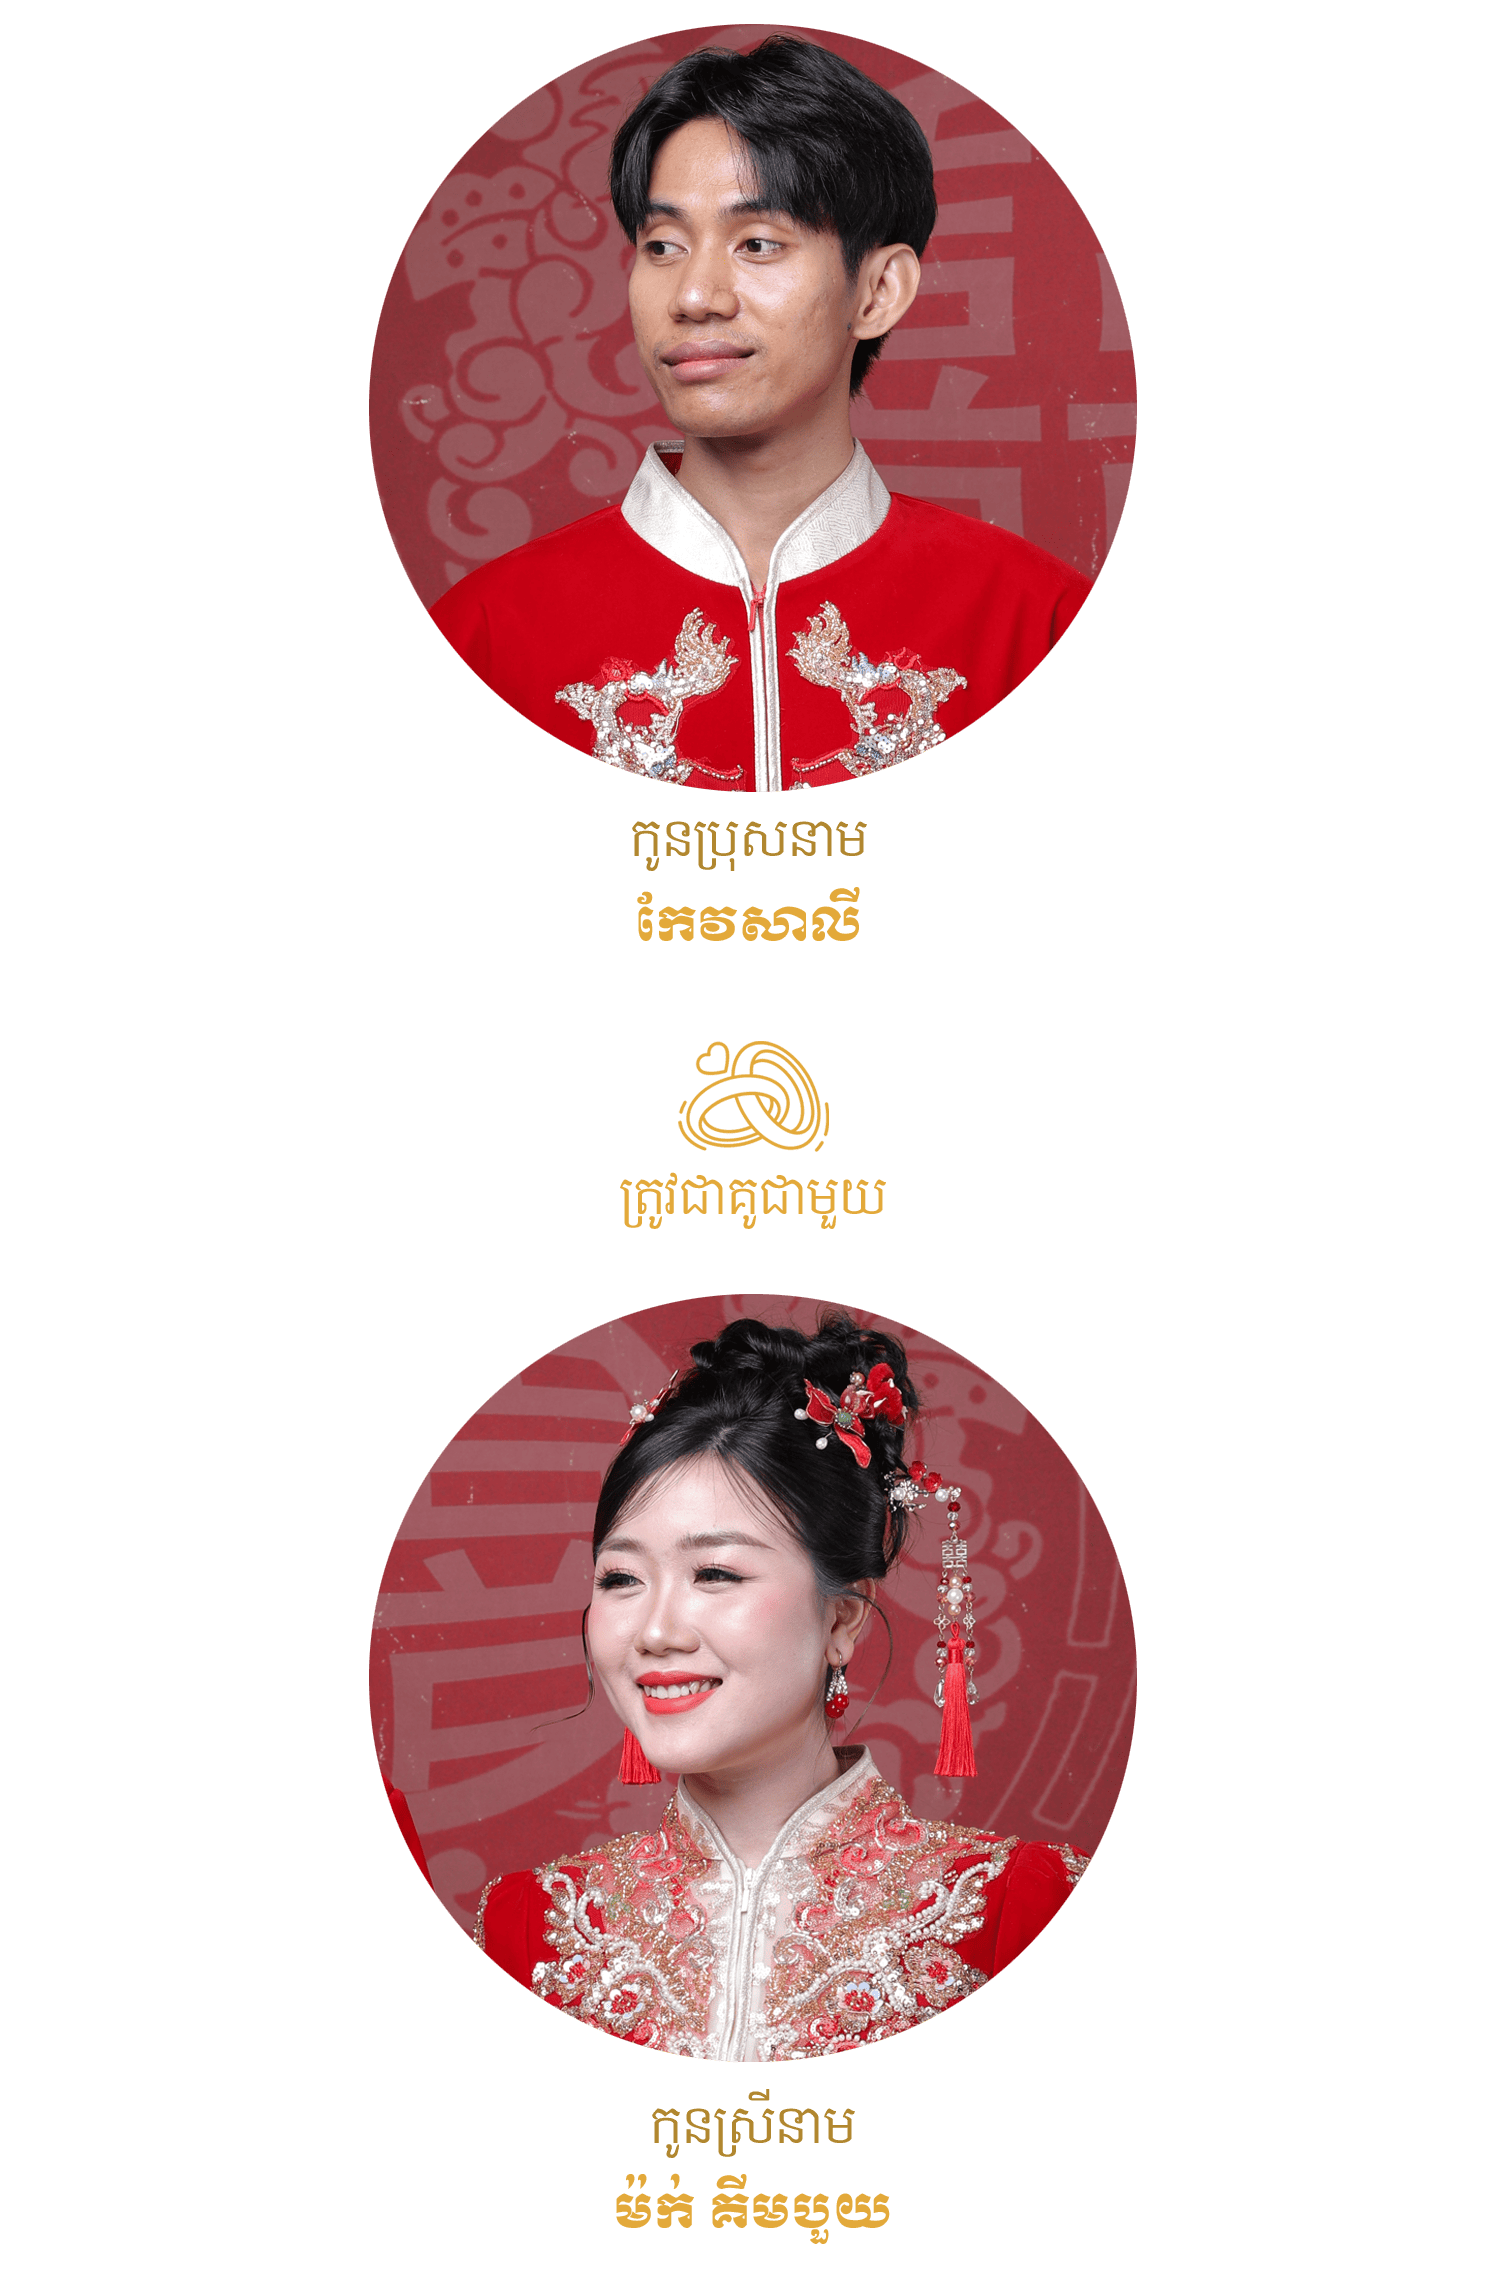
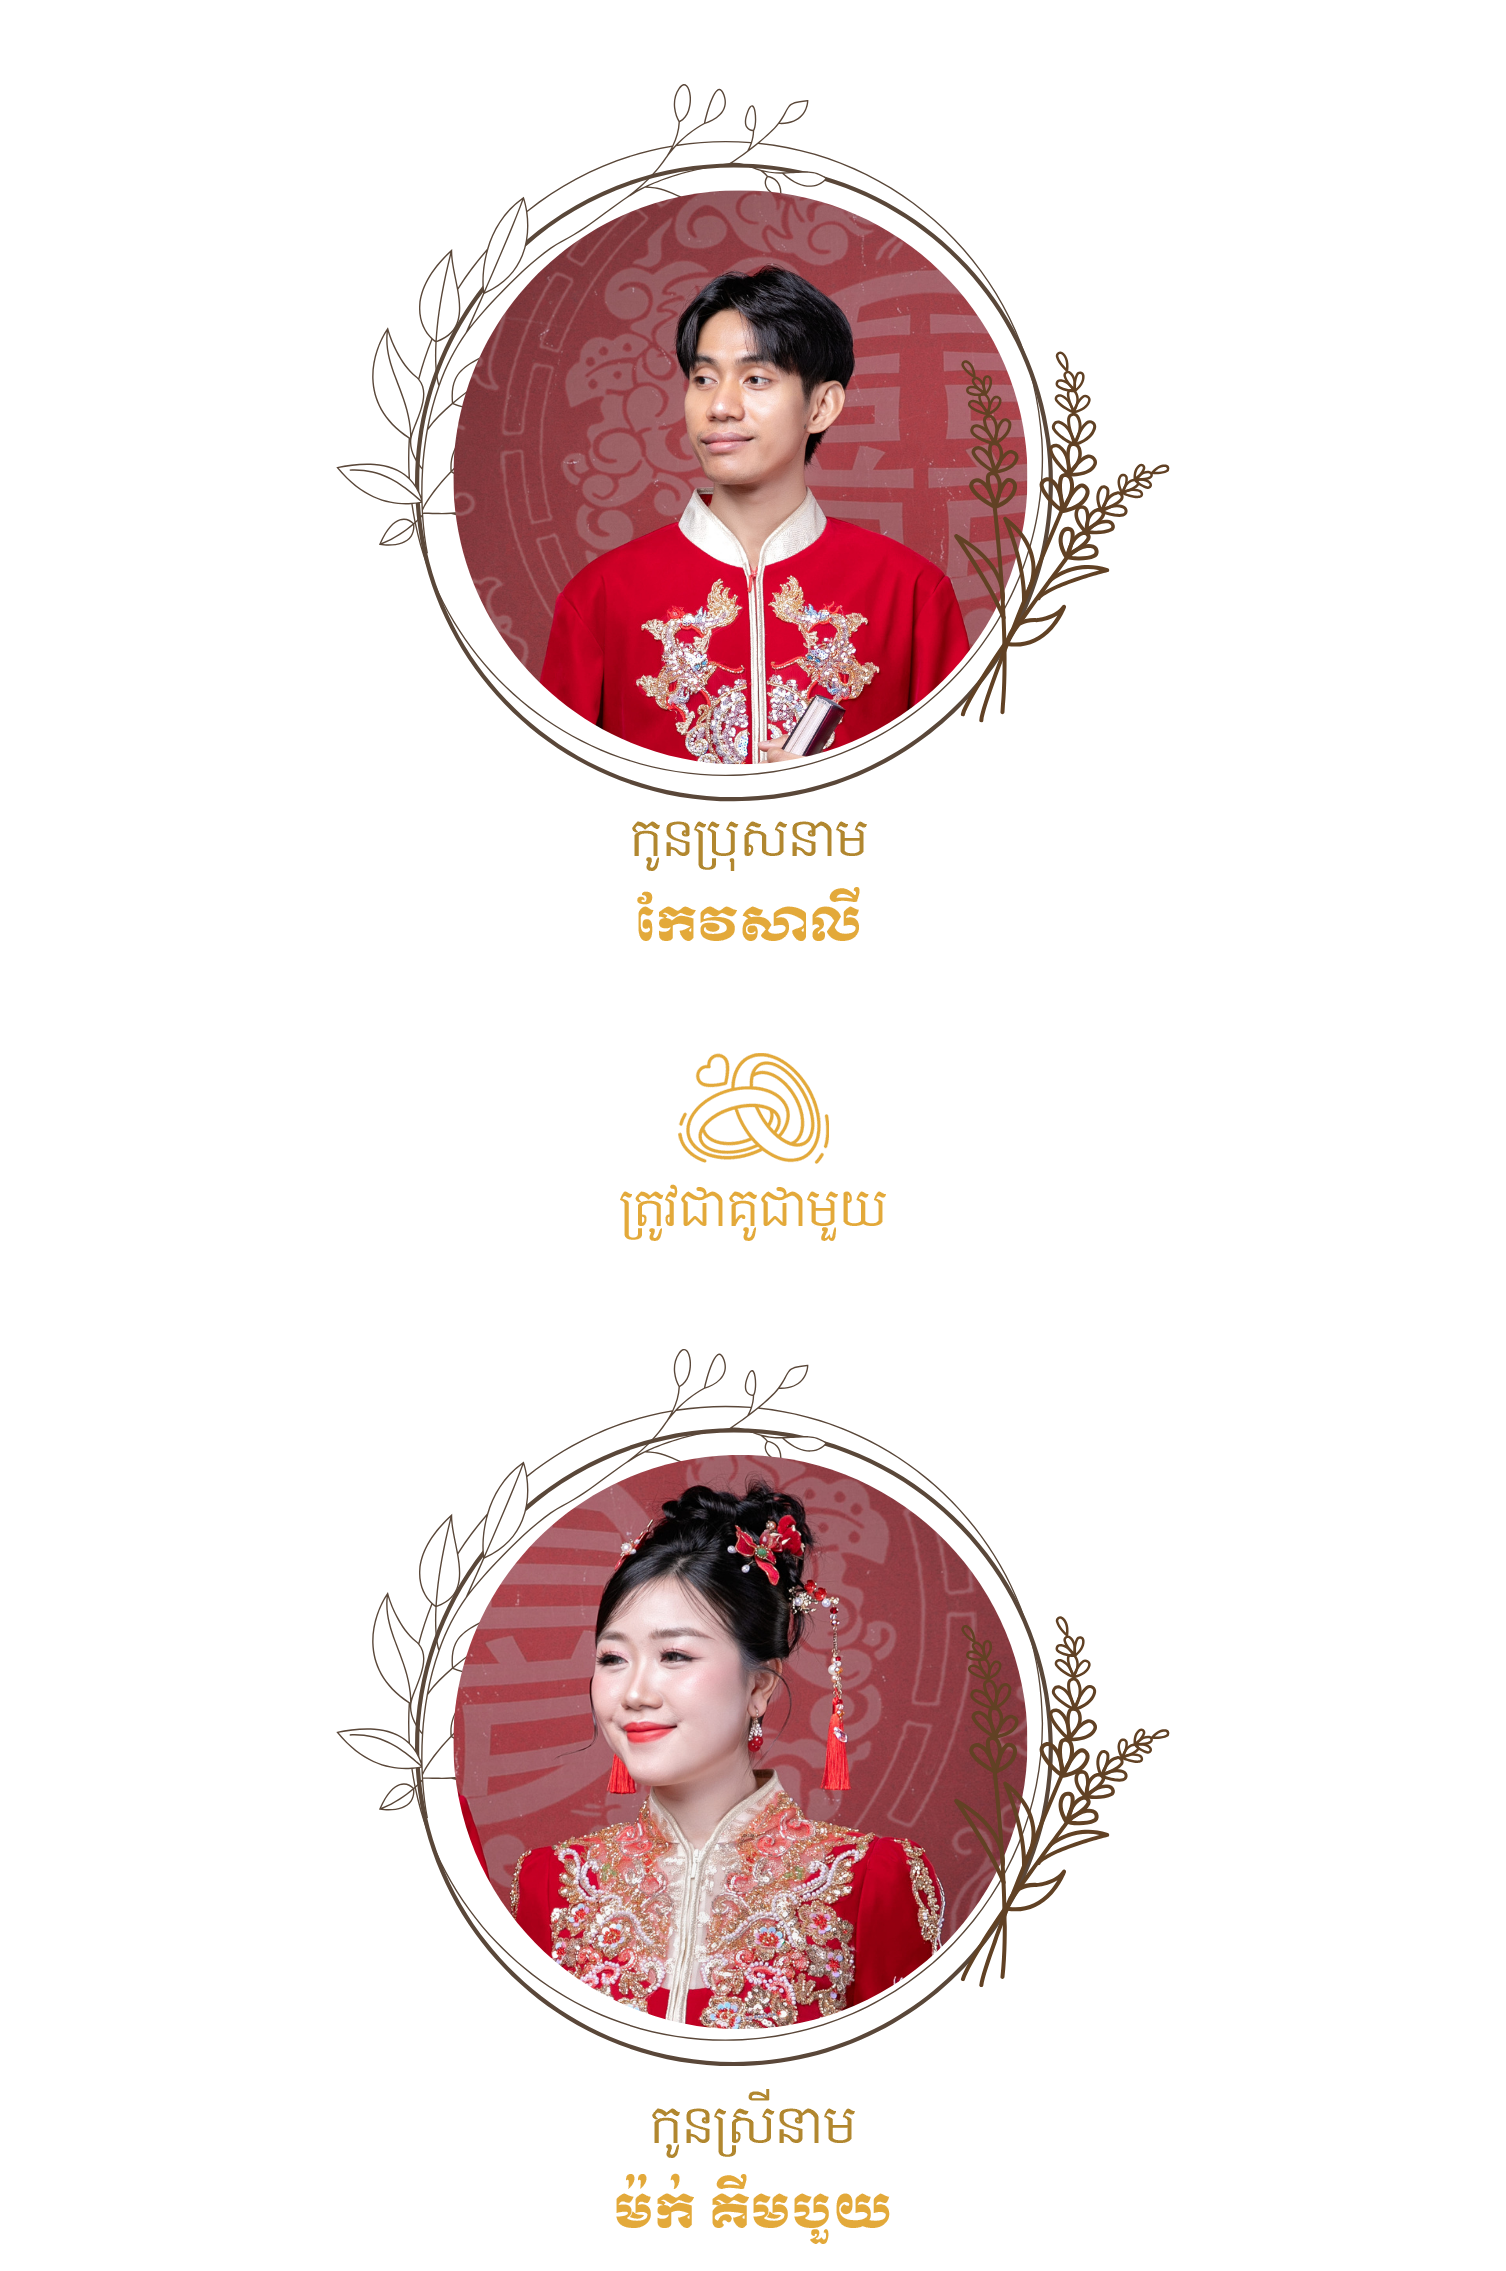
update123

Changed region(s): [[0.2185, 0.4624, 0.7802, 0.9247], [0.2185, 0.0, 0.7802, 0.3699]]

diff --git a/apps/saly/index.html b/apps/saly/index.html
@@ -148,8 +148,11 @@
 
             <!-- Center content -->
             <div class="calendar-content">
-              <div class="calendar-heading-top">OUR CALENDAR</div>
-              <div class="calendar-couple-name">Saly &amp; Kimbouy</div>
+              <!-- <div class="calendar-heading-top">OUR CALENDAR</div> -->
+               <div class="calendar-heading-top">
+                  <img src="./images/txt_calendar.png" width="280px">
+               </div>
+              <!-- <div class="calendar-couple-name">Saly &amp; Kimbouy</div> -->
 
               <div class="calendar-countdown">
                 <div class="calendar-count-item">
